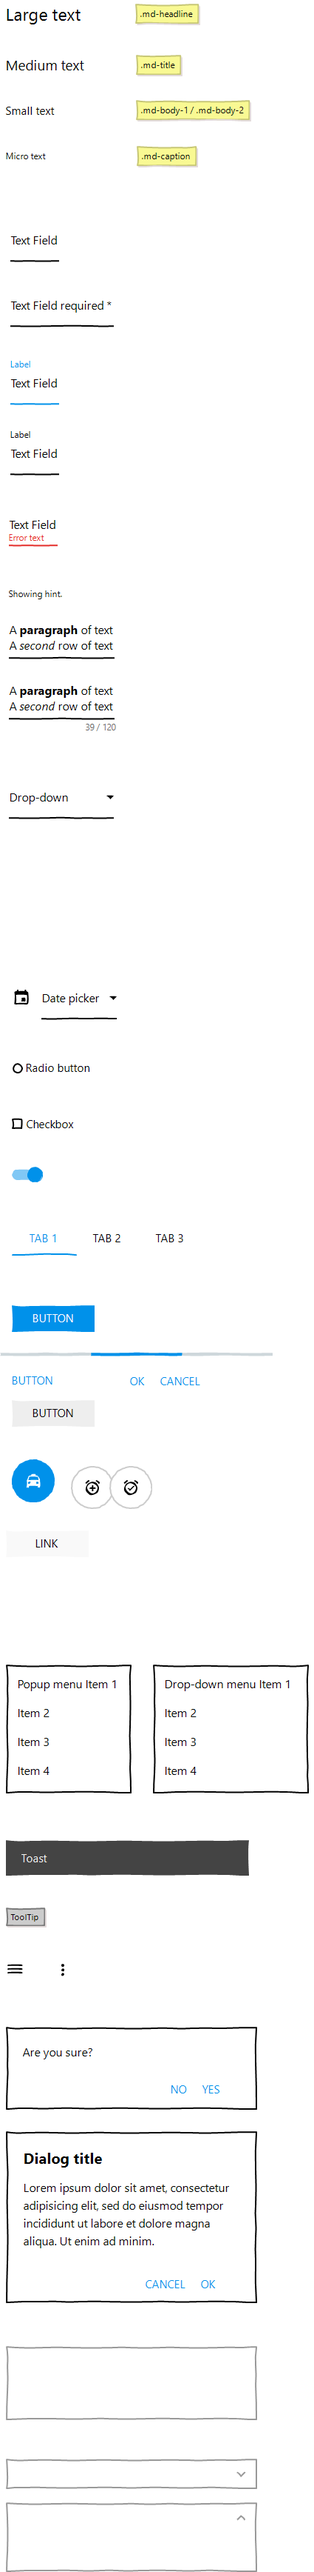
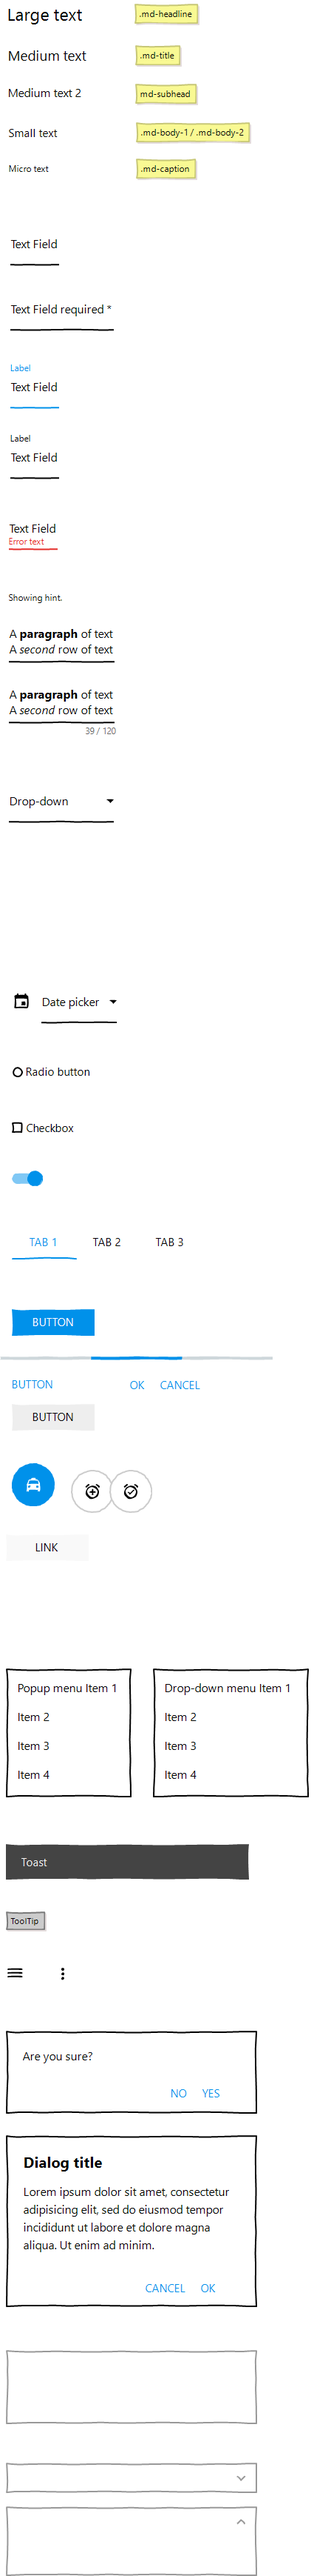
Fotos

diff --git a/Plantillas/Components_files/resources/story.js b/Plantillas/Components_files/resources/story.js
@@ -4,7 +4,7 @@ var story = {
   "width": 425,
   "links": [],
   "title": "Components",
-  "height": 3472
+  "height": 3477
  }],
  "title": "Components",
  "highlightLinks": false
